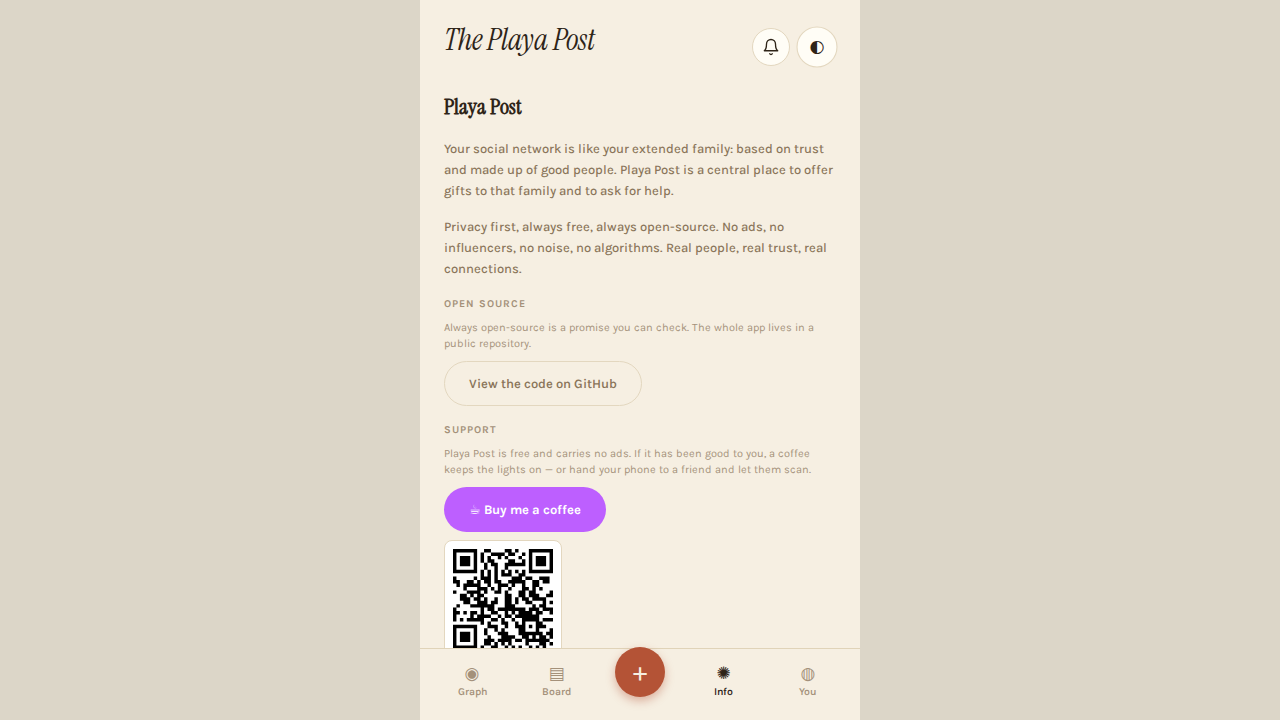
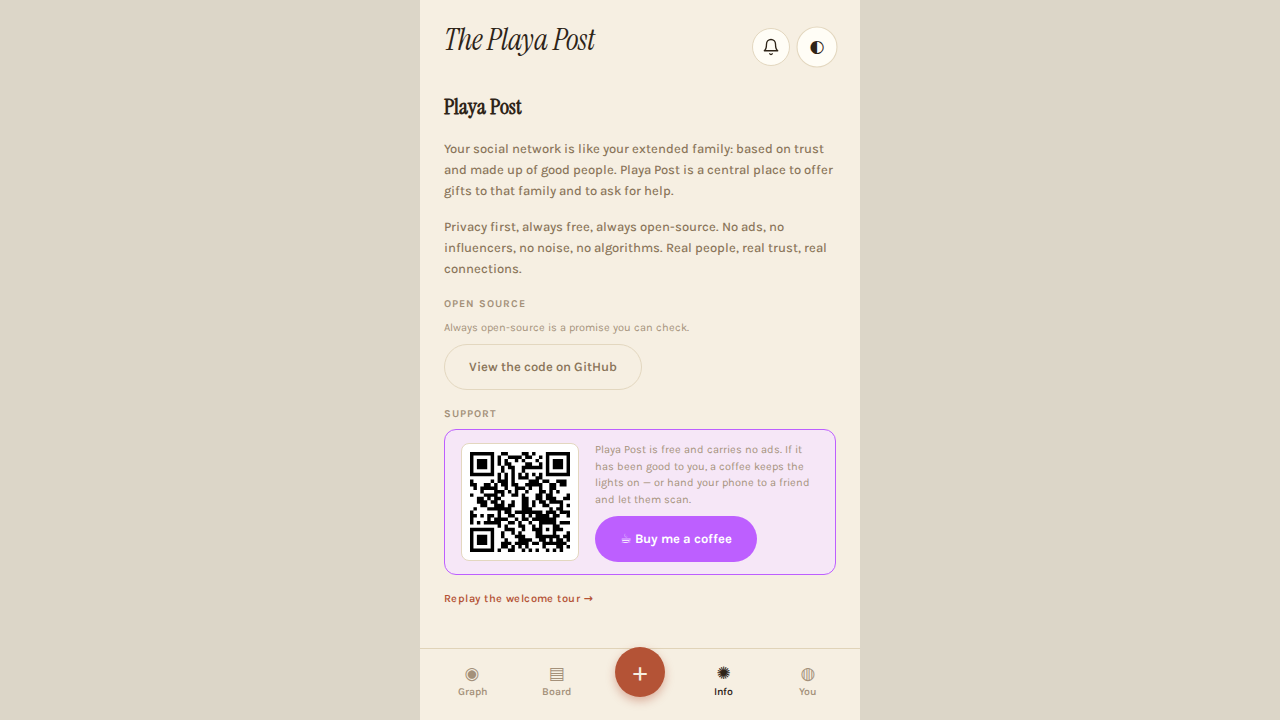
feat(web): support section becomes one card; open-source copy softened (#224)
The Info screen's Support section takes the CONNECT card's shape: QR,
explainer, and the Buy Me a Coffee button in one bordered box, washed in
the brand purple. The open-source aside drops 'the whole app lives in a
public repository' — one sentence, no privacy scare.

Changed region(s): [[0.3438, 0.4583, 0.6562, 0.9167], [0.5625, 0.4278, 0.625, 0.4583]]

diff --git a/apps/web/src/app/routes/info.tsx b/apps/web/src/app/routes/info.tsx
@@ -36,10 +36,10 @@ export function InfoRoute(): JSX.Element {
 
       <div className="info__section">
         <h2 className="info__section-label">Open source</h2>
-        <p className="screen__aside">
-          Always open-source is a promise you can check. The whole app lives in a public
-          repository.
-        </p>
+        {/* One sentence, deliberately (issue #224): "the whole app lives in a public
+            repository" invited the misreading that *members' data* is public. The link
+            below is the receipt; it does not need announcing. */}
+        <p className="screen__aside">Always open-source is a promise you can check.</p>
         <a
           className="button info__link"
           data-testid="info-github-link"
@@ -53,26 +53,34 @@ export function InfoRoute(): JSX.Element {
 
       <div className="info__section">
         <h2 className="info__section-label">Support</h2>
-        <p className="screen__aside">
-          Playa Post is free and carries no ads. If it has been good to you, a coffee
-          keeps the lights on — or hand your phone to a friend and let them scan.
-        </p>
-        <a
-          className="button info__coffee"
-          data-testid="info-coffee-link"
-          href={BUY_ME_A_COFFEE_URL}
-          target="_blank"
-          rel="noreferrer"
-        >
-          {BUY_ME_A_COFFEE_LABEL}
-        </a>
-        {/*
-          Same hard-coded white/black as the CONNECT card's QR, for the same reason: a
-          scanner needs dark modules on a light field in both themes, and this code gets
-          read off somebody else's screen at arm's length.
-        */}
-        <div className="info__qr" data-testid="info-coffee-qr">
-          <QRCode value={BUY_ME_A_COFFEE_URL} size={100} level="M" bgColor="#ffffff" fgColor="#000000" />
+        {/* The CONNECT card's shape (issue #224): QR on the left, words and the action in a
+            body on the right, one bordered box — loose stacked parts read as unfinished next
+            to the You screen's card. The wash is Buy Me a Coffee's brand purple, not the app
+            palette, for the same reason the button wears it: this box leaves the app. */}
+        <div className="info__support-card" data-testid="info-support-card">
+          {/*
+            Same hard-coded white/black as the CONNECT card's QR, for the same reason: a
+            scanner needs dark modules on a light field in both themes, and this code gets
+            read off somebody else's screen at arm's length.
+          */}
+          <div className="info__qr" data-testid="info-coffee-qr">
+            <QRCode value={BUY_ME_A_COFFEE_URL} size={100} level="M" bgColor="#ffffff" fgColor="#000000" />
+          </div>
+          <div className="info__support-body">
+            <p className="screen__aside">
+              Playa Post is free and carries no ads. If it has been good to you, a coffee
+              keeps the lights on — or hand your phone to a friend and let them scan.
+            </p>
+            <a
+              className="button info__coffee"
+              data-testid="info-coffee-link"
+              href={BUY_ME_A_COFFEE_URL}
+              target="_blank"
+              rel="noreferrer"
+            >
+              {BUY_ME_A_COFFEE_LABEL}
+            </a>
+          </div>
         </div>
       </div>
 

diff --git a/apps/web/src/app/routes/info.unit.test.tsx b/apps/web/src/app/routes/info.unit.test.tsx
@@ -89,13 +89,29 @@ describe('the Info screen', () => {
     expect(container.querySelector('script')).toBeNull();
   });
 
-  it('renders the support QR beside the link', async () => {
+  it('presents support as one card holding the QR, the explainer, and the button (issue #224)', async () => {
     const container = await mountInfo();
-    const qr = container.querySelector('[data-testid="info-coffee-qr"]');
+    const card = container.querySelector('[data-testid="info-support-card"]');
 
+    // One box, not loose parts: the QR frame, the aside copy, and the outbound button
+    // all live inside the same card element, the CONNECT card's shape.
+    expect(card).not.toBeNull();
     // `react-qr-code` renders an SVG; its presence inside the frame is the contract —
     // that the modules encode BUY_ME_A_COFFEE_URL is the library's tested behaviour.
-    expect(qr?.querySelector('svg')).not.toBeNull();
+    expect(card?.querySelector('[data-testid="info-coffee-qr"] svg')).not.toBeNull();
+    expect(card?.querySelector('[data-testid="info-coffee-link"]')).not.toBeNull();
+    expect(card?.querySelector('.screen__aside')).not.toBeNull();
+  });
+
+  it('keeps the open-source promise but never says where the code lives (issue #224)', async () => {
+    const container = await mountInfo();
+    const text = container.textContent ?? '';
+
+    expect(text).toContain('Always open-source is a promise you can check.');
+    // "The whole app lives in a public repository" read as scary for privacy — a member
+    // can misread "public repository" as their data being public. The link alone is the
+    // receipt.
+    expect(text).not.toContain('public repository');
   });
 
   it('routes the replay link at the welcome tour', async () => {

diff --git a/apps/web/src/app/info/info.css b/apps/web/src/app/info/info.css
@@ -29,6 +29,32 @@
 }
 
 /*
+ * The support card (issue #224): the CONNECT card's shape — QR left, body right, one
+ * bordered box — washed in Buy Me a Coffee's brand purple instead of `--pp-card`. The
+ * color-mix keeps it a tint over the theme's card surface so text tokens stay readable
+ * in both themes while the box still reads unmistakably as the outbound brand's.
+ */
+.info__support-card {
+  display: flex;
+  align-items: center;
+  align-self: stretch;
+  gap: var(--pp-space-4);
+  padding: var(--pp-space-3) var(--pp-space-4);
+  border: 1px solid #bd5fff;
+  border-radius: var(--pp-radius);
+  background: color-mix(in srgb, #bd5fff 14%, var(--pp-card));
+}
+
+.info__support-body {
+  display: flex;
+  flex: 1;
+  flex-direction: column;
+  align-items: flex-start;
+  gap: var(--pp-space-2);
+  min-width: 0;
+}
+
+/*
  * The support button wears Buy Me a Coffee's own brand purple (#BD5FFF, from the
  * owner's widget config) rather than the app palette: it is the one control on the
  * screen that leaves the app, and dressing it as an outbound brand is what says so.
@@ -47,6 +73,9 @@
 }
 
 .info__qr {
+  /* In the support card's flex row the code may not be squeezed narrower than it was
+     generated — same rule as `.profile__qr`, same reason: a squashed QR does not scan. */
+  flex: none;
   display: flex;
   padding: var(--pp-space-2);
   border: 1px solid var(--pp-card-border);
